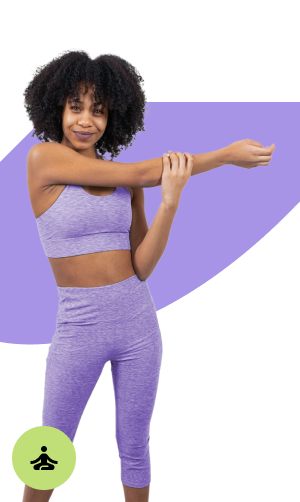
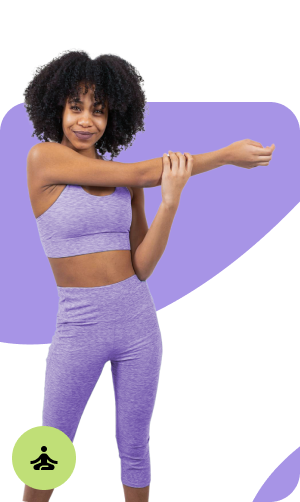
4

Changed region(s): [[0.84, 0.8665, 1.0, 1.0], [0.0, 0.1793, 0.12, 0.3287], [0.93, 0.1793, 1.0, 0.2689]]

diff --git a/assets/css/main.css b/assets/css/main.css
@@ -62,8 +62,9 @@
   --accent-dark-color-1: #640BD5;  /* Accent color that represents your brand on the website. It's used for buttons, links, and other elements that need to stand out */
  
   --accent-light-color-1: #C0DF77;
+  --accent-light-color-1-b: #99bd46;
   --accent-light-color-2: #640BD5;
-  --accent-pastel-2-color: #FBB9F4;
+  --accent-light-color-3: #FEEF78;
 
   --accent-light-color: #A794E6;
 
@@ -941,12 +942,13 @@ section,
   font-weight: 700;
   padding: 8px 20px;
 
-  background: var(--accent-dark-color-1);
-  color:  #ffffff; /* var(--accent-dark-color-1); */
+  background: transparent;/* var(--accent-dark-color-1); */
+  color:  var(--accent-light-color-1-b);
   display: inline-block;
   text-transform: uppercase;
   border-radius: 50px;
   font-family: var(--default-font);
+  border: 2px solid var(--accent-light-color-1);
 }
 
 .section-title p {
@@ -1534,6 +1536,10 @@ section,
 # Portfolio Section
 --------------------------------------------------------------*/
 
+ .portfolio-item .img-fluid{
+  border-radius: 30px;
+}
+
 
 .portfolio .portfolio-filters {
   padding: 0;
@@ -1580,6 +1586,7 @@ section,
 .portfolio .portfolio-item {
   position: relative;
   overflow: hidden;
+  
 }
 
 .portfolio .portfolio-item .portfolio-info {
@@ -1592,6 +1599,7 @@ section,
   transition: all ease-in-out 0.5s;
   background: color-mix(in srgb, var(--background-color), transparent 10%);
   padding: 15px;
+  
 }
 
 .portfolio .portfolio-item .portfolio-info h4 {
@@ -1746,8 +1754,8 @@ section,
   font-size: 24px;
   font-style: italic;
   font-weight: 600;
-  color: var(--default-color);
-  background: var(--accent-light-color); /* color-mix(in srgb, var(--default-color), transparent 95%); */
+  color: var(--heading-color);
+  background: var(--accent-light-color-3);/* color-mix(in srgb, var(--default-color), transparent 95%); */
 }
 
 
@@ -1832,8 +1840,8 @@ section,
 }
 
 .pricing .btn-buy {
-  background: var(--accent-light-color-2); /* var(--accent-dark-color-1); */
-  color: var(--contrast-color);;
+  background: var(--accent-light-color-3); /* var(--accent-dark-color-1); */
+  color: var(--heading-color);
   display: inline-block;
   padding: 8px 35px 10px 35px;
   /* border-radius: 10px; */
@@ -1870,8 +1878,8 @@ section,
 }
 
 .pricing .featured h3 {
-  background: var(--accent-light-color-2);
-  color: var(--contrast-color);;
+  background: var(--accent-light-color-3);
+  color: var(--heading-color);
 }
 
 

diff --git a/index.html b/index.html
@@ -556,8 +556,8 @@
 
           <div class="col-xl-4 col-lg-6" data-aos="fade-up" data-aos-delay="400">
             <div class="pricing-item featured">
-              <h3>TALLER INTRODUCTORIO</h3>
-              <p><strong>Curso introductorio para el bienestar integral</strong><br> 3 Meses de duración | 1 encuentro semanal</p>
+              <h3>Taller Primeros Pasos</h3>
+              <p><strong>Curso para el bienestar integral para niños</strong><br> 3 Meses de duración | 1 encuentro semanal</p>
               <br>
               <img src="assets/img/Prices/Card01.png" class="img-fluid" style="height: 200px;">
               <br><br>
